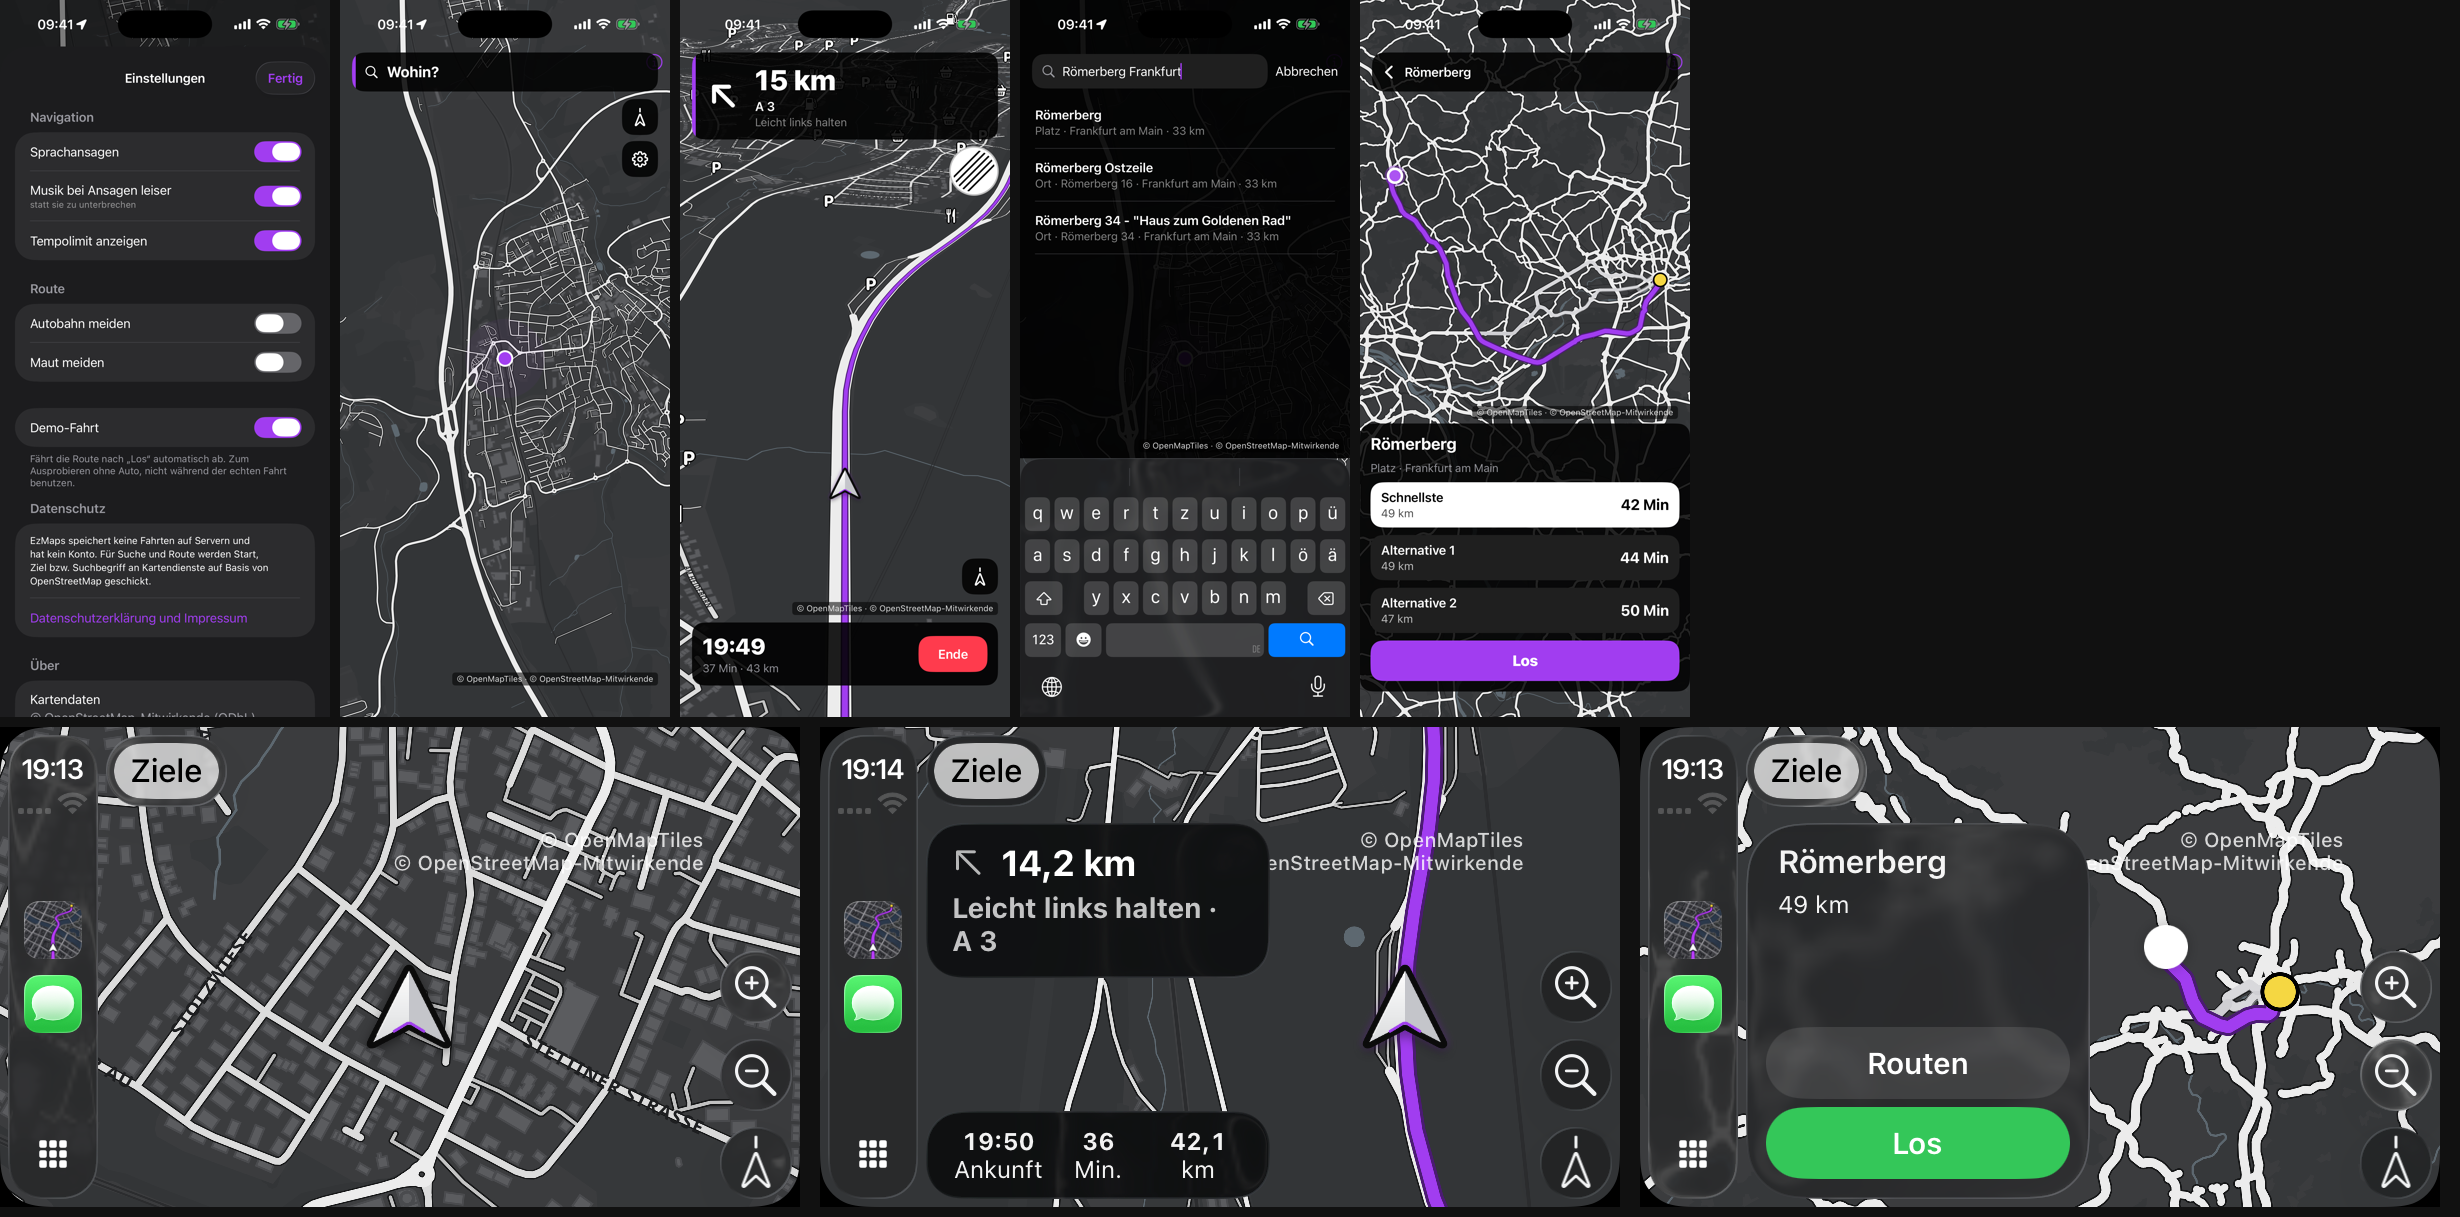
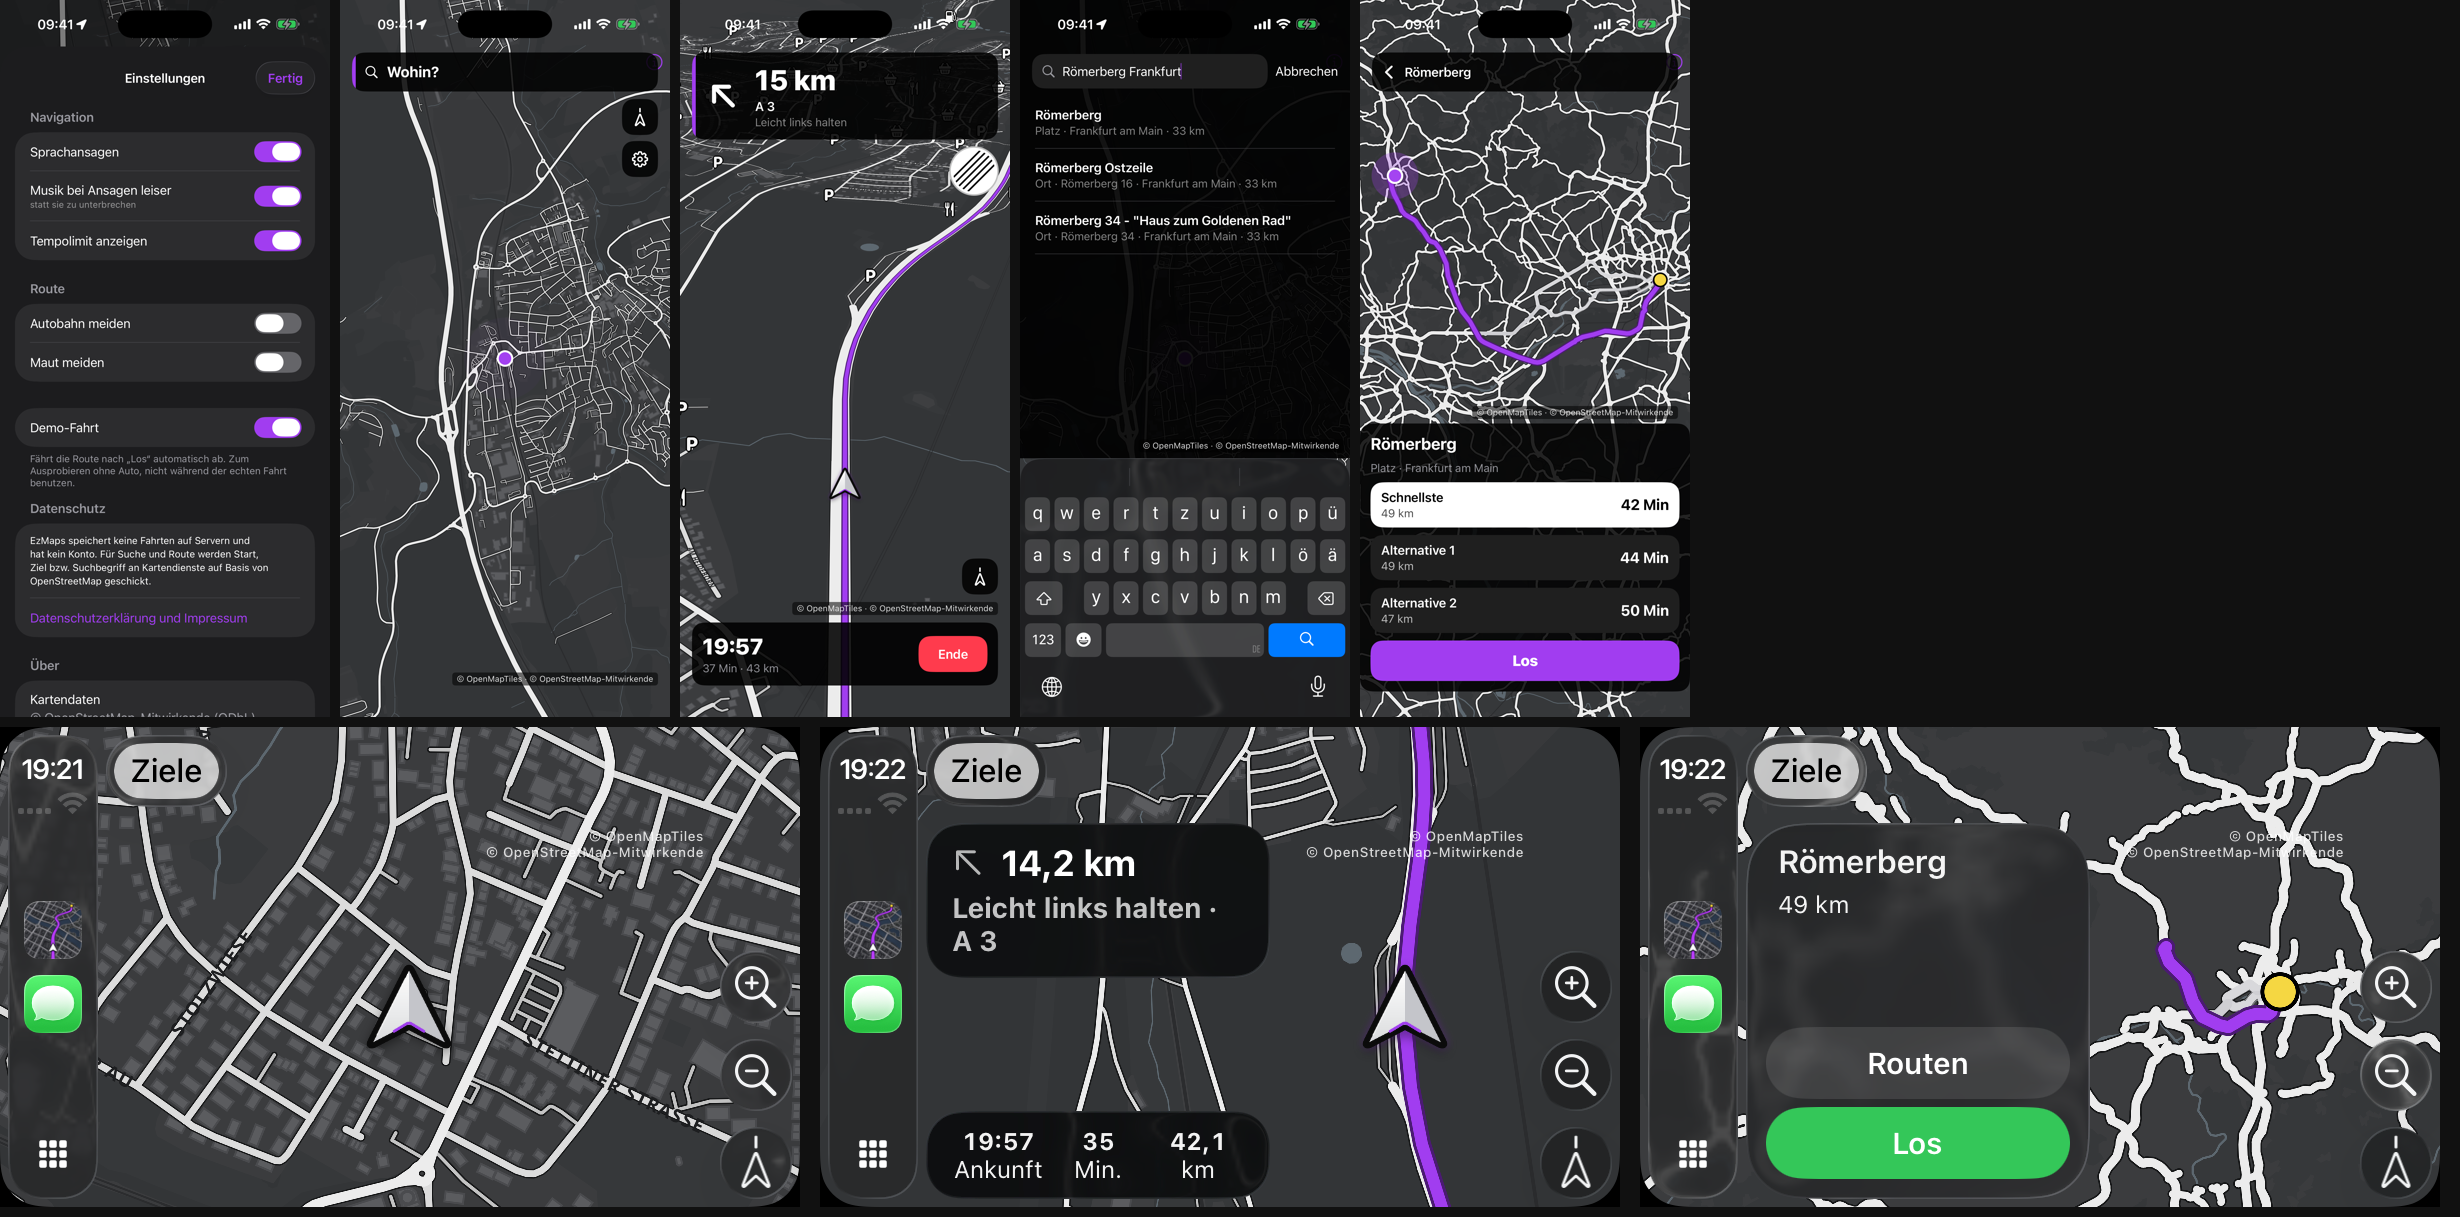
GM-027: CarPlay-Vorschau zeigt die ganze Strecke (Kamera vor dem Einpassen stoppen)

diff --git a/App/CarPlaySceneDelegate.swift b/App/CarPlaySceneDelegate.swift
@@ -326,6 +326,8 @@ final class CarMapViewController: UIViewController, MLNMapViewDelegate {
     func show(routes: [Route], selected: Int, destination: Coordinate?, revision: Int, navigating: Bool, limit: Int?,
               follow: Coordinate? = nil, heading: Double = 0, speedKmh: Double = 50) {
         guard let map = mapView else { return }
+        // GM-027: Kamera zuerst umschalten – sonst überschreibt sie den gerade eingepassten Vorschau-Ausschnitt
+        if AppModel.shared.screen == .preview { camera?.stop() } else { camera?.start() }
         if revision != self.revision || selected != self.selected {
             let isNew = revision != self.revision
             self.revision = revision
@@ -342,7 +344,6 @@ final class CarMapViewController: UIViewController, MLNMapViewDelegate {
         self.navigating = navigating
         // GM-025: CarPlay ist auch ohne Route der Hauptmodus – Karte flach von oben, Pfeil in der Mitte,
         // Kamera gleitet dem Auto nach. Nur die Routen-Vorschau zeigt die ganze Strecke (eingepasst).
-        if AppModel.shared.screen == .preview { camera?.stop() } else { camera?.start() }
         if let l = limit {
             limitLabel.text = String(l)
             limitLabel.isHidden = !navigating || l < 0 // GM-022: kein „∞“ – ohne Limit kein Schild im Auto
